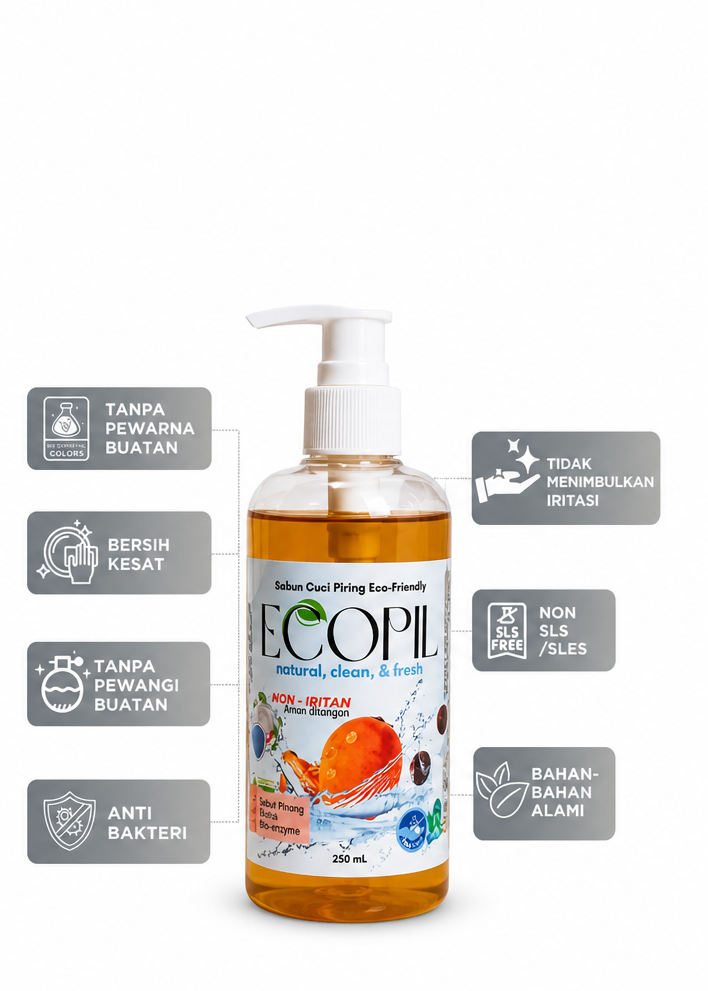
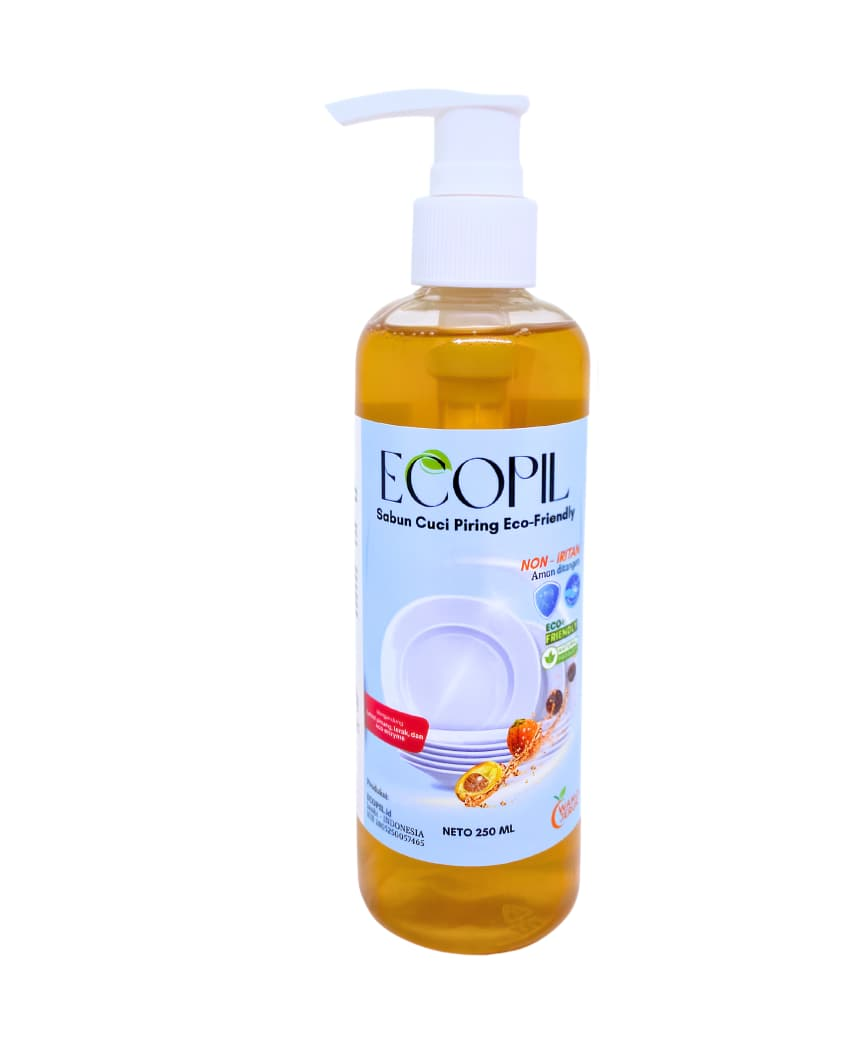
fix bg

diff --git a/index.html b/index.html
@@ -79,7 +79,6 @@
         <div class="container">
             <a class="navbar-brand fw-bold d-flex align-items-center gap-2" href="#hero">
                 <img src="images/logo_ecopil.jpg" alt="ECOPIL Logo" class="navbar-logo-img">
-                ECOPIL
             </a> 
             <button class="navbar-toggler" type="button" data-bs-toggle="collapse" data-bs-target="#navbarNav" aria-label="Buka menu navigasi">
                 <span class="navbar-toggler-icon"></span>
@@ -98,21 +97,9 @@
     </nav>
 
     <!-- Hero Section -->
-    <section id="hero" class="hero-section d-flex align-items-center">
-        <!-- Dekorasi bubble/blob -->
-        <div class="hero-decor" aria-hidden="true">
-            <span class="bubble bubble-1"></span>
-            <span class="bubble bubble-2"></span>
-            <span class="bubble bubble-3"></span>
-            <span class="bubble bubble-4"></span>
-            <span class="bubble bubble-5"></span>
-            <svg class="hero-blob" viewBox="0 0 600 600" xmlns="http://www.w3.org/2000/svg">
-                <path fill="var(--ecopil-mint)" d="M421,320Q414,390,349,420Q284,450,219,423Q154,396,110,341Q66,286,96,215Q126,144,197,111Q268,78,335,110Q402,142,421,211Q440,280,421,320Z"></path>
-            </svg>
-        </div>
-
-        <div class="container position-relative">
+    <section id="hero" class="hero-section d-flex align-items-center" style="background: linear-gradient(rgba(234, 249, 255, 0.88), rgba(234, 249, 255, 0.95)), url('images/kolase-produk.jpeg'); background-size: cover; background-position: center; background-repeat: no-repeat;">
             <div class="row align-items-center">
+                <div class="container position-relative"></div>
                 <div class="col-lg-6 text-center text-lg-start" data-aos="fade-right">
                     <span class="eyebrow"><i class="fas fa-seedling me-2"></i>ECOPIL Indonesia</span>
                     <h1 class="display-5 fw-bold mt-3">
@@ -141,11 +128,6 @@
                     </div>
                 </div>
             </div>
-        </div>
-
-        <!-- Wave divider -->
-        <div class="section-wave" aria-hidden="true">
-            <svg viewBox="0 0 1440 100" preserveAspectRatio="none"><path d="M0,40 C240,100 480,0 720,40 C960,80 1200,10 1440,50 L1440,100 L0,100 Z" fill="var(--ecopil-ice)"></path></svg>
         </div>
     </section>
 
@@ -276,7 +258,7 @@
                         <div class="product-body text-center">
                             <h5 class="card-title">ECOPIL Sabun Cuci Piring 250ml</h5>
                             <p class="card-text">Ukuran hemat, pas untuk keluarga kecil. Formula tanpa SLS, aman untuk kulit sensitif.</p>
-                            <h4 class="price-text">Rp 17.999</h4>
+                            <h4 class="price-text">Rp 20.000</h4>
                             <div class="d-grid gap-2 mt-3">
                                 <a href="https://shopee.co.id/ecopil.id" class="btn btn-ecopil" target="_blank" rel="noopener">
                                     <i class="fas fa-shopping-cart me-2"></i>Beli di Marketplace
@@ -299,7 +281,7 @@
                         <div class="product-body text-center">
                             <h5 class="card-title">ECOPIL Sabun Cuci Piring 500ml</h5>
                             <p class="card-text">Membersihkan lebih banyak, tetap ramah lingkungan. Cocok untuk pemakaian harian.</p>
-                            <h4 class="price-text">Rp 28.999</h4>
+                            <h4 class="price-text">Rp 31.000</h4>
                             <div class="d-grid gap-2 mt-3">
                                 <a href="https://shopee.co.id/ecopil.id" class="btn btn-ecopil" target="_blank" rel="noopener">
                                     <i class="fas fa-shopping-cart me-2"></i>Beli di Marketplace
@@ -324,7 +306,7 @@
                         <div class="product-body text-center">
                             <h5 class="card-title">ECOPIL Kemasan Refill 370ml</h5>
                             <p class="card-text">Lebih hemat dan praktis. Solusi tepat untuk isi ulang sekaligus mengurangi sampah botol plastik.</p>
-                            <h4 class="price-text">Rp 22.999</h4>
+                            <h4 class="price-text">Rp 23.000</h4>
                             <div class="d-grid gap-2 mt-3">
                                 <a href="https://shopee.co.id/ecopil.id" class="btn btn-ecopil" target="_blank" rel="noopener">
                                     <i class="fas fa-shopping-cart me-2"></i>Beli di Marketplace
@@ -349,7 +331,7 @@
                         <div class="product-body text-center">
                             <h5 class="card-title">ECOPIL Kemasan Refill 670ml</h5>
                             <p class="card-text">Ukuran isi ulang terbesar kami. Pilihan paling ekonomis untuk kebutuhan cuci piring keluarga Anda.</p>
-                            <h4 class="price-text">Rp 35.999</h4>
+                            <h4 class="price-text">Rp 35.000</h4>
                             <div class="d-grid gap-2 mt-3">
                                 <a href="https://shopee.co.id/ecopil.id" class="btn btn-ecopil" target="_blank" rel="noopener">
                                     <i class="fas fa-shopping-cart me-2"></i>Beli di Marketplace
@@ -411,47 +393,6 @@
             </div>
         </div>
     </section>
-
-    <!--     & Antusiasme Pelanggan (Solusi: Gambar Tampil Utuh) -->
-        <section id="galeri" class="py-5 bg-ice">
-            <div class="container">
-                <div class="text-center mb-5">
-                    <span class="section-eyebrow" data-aos="fade-up">Galeri & Perjalanan Kami</span>
-                    <h2 data-aos="fade-up">Antusiasme Bersama ECOPIL</h2>
-                    <p class="text-muted mt-2">Kebanggaan kami saat memperkenalkan sabun cuci piring ramah lingkungan langsung kepada masyarakat.</p>
-                </div>
-                <div class="row g-4 justify-content-center">
-                    
-                    <!-- Foto 1: Pelanggan di Stand Expo -->
-                    <div class="col-md-6" data-aos="fade-up" data-aos-delay="0">
-                        <div class="card border-0 shadow-sm rounded-4 overflow-hidden h-100">
-                            <!-- Kotak pembungkus dengan background terang agar rapi -->
-                            <div class="bg-white p-3 d-flex align-items-center justify-content-center" style="height: 340px;">
-                                <img src="images/pelanggan di stand expo ibu2.jpeg" alt="Pelanggan setia di stand ECOPIL" class="img-fluid w-100 h-100" style="object-fit: contain;" loading="lazy">
-                            </div>
-                            <div class="card-body bg-white text-center p-3 border-top">
-                                <h5 class="card-title fs-6 fw-bold mb-1">Pilihan Utama Ibu Rumah Tangga</h5>
-                                <p class="card-text small text-muted mb-0">Pengunjung pameran antusias mencoba dan membawa pulang produk ECOPIL.</p>
-                            </div>
-                        </div>
-                    </div>
-
-                    <!-- Foto 2: Detail Botol & Penggunaan Nyata -->
-                    <div class="col-md-6" data-aos="fade-up" data-aos-delay="150">
-                        <div class="card border-0 shadow-sm rounded-4 overflow-hidden h-100">
-                            <div class="bg-white p-3 d-flex align-items-center justify-content-center" style="height: 340px;">
-                                <img src="images/shoot botol ecopil.jpeg" alt="Detail kemasan botol ECOPIL" class="img-fluid w-100 h-100" style="object-fit: contain;" loading="lazy">
-                            </div>
-                            <div class="card-body bg-white text-center p-3 border-top">
-                                <h5 class="card-title fs-6 fw-bold mb-1">Formula Alami & Lembut di Tangan</h5>
-                                <p class="card-text small text-muted mb-0">Kemasan praktis dengan pompa (pump), nyaman digunakan sehari-hari.</p>
-                            </div>
-                        </div>
-                    </div>
-
-                </div>
-            </div>
-        </section>
 
         <!-- Edukasi & Tips EcoPals -->
         <section id="edukasi" class="py-5">
@@ -746,11 +687,38 @@
                 <i class="fas fa-droplet"></i>
                 <span class="fw-bold fs-5">ECOPIL</span>
             </div>
-            <p class="mb-3 footer-tagline">Sabun cuci piring alami — bersih untuk keluarga, lembut untuk bumi.</p>
+            <p class="mb-3 footer-tagline">sabun cuci piring ramah lingkungan berbasis limbah sabut pinang, lerak, dan eco enzyme</p>
             <div class="mb-3">
                 <a href="https://instagram.com/ecopil.id" target="_blank" rel="noopener" class="text-white me-3" aria-label="Instagram ECOPIL"><i class="fab fa-instagram fa-lg"></i></a>
                 <a href="https://shopee.co.id/ecopil.id" target="_blank" rel="noopener" class="text-white me-3" aria-label="Toko Shopee ECOPIL"><i class="fas fa-store fa-lg"></i></a>
                 <a href="https://wa.me/6287743198186" target="_blank" rel="noopener" class="text-white" aria-label="WhatsApp ECOPIL"><i class="fab fa-whatsapp fa-lg"></i></a>
+            </div>
+            <!-- Kumpulan Link Sosial Media & Marketplace -->
+            <div class="d-flex justify-content-center gap-3 mt-4 mb-3">
+                <!-- Instagram -->
+                <a href="https://www.instagram.com/ecopil.id?igsi=MWlqY211MngxMGd4ag==" target="_blank" rel="noopener" class="btn btn-outline-light rounded-circle" style="width: 45px; height: 45px; display: flex; align-items: center; justify-content: center;" aria-label="Instagram">
+                    <i class="fab fa-instagram fs-5"></i>
+                </a>
+                <!-- TikTok -->
+                <a href="https://www.tiktok.com/@ecopil.id?_r=1&_t=ZS-9968x7Mwend" target="_blank" rel="noopener" class="btn btn-outline-light rounded-circle" style="width: 45px; height: 45px; display: flex; align-items: center; justify-content: center;" aria-label="TikTok">
+                    <i class="fab fa-tiktok fs-5"></i>
+                </a>
+                <!-- Facebook -->
+                <a href="https://www.facebook.com/profile.php?id=61581069813103" target="_blank" rel="noopener" class="btn btn-outline-light rounded-circle" style="width: 45px; height: 45px; display: flex; align-items: center; justify-content: center;" aria-label="Facebook">
+                    <i class="fab fa-facebook-f fs-5"></i>
+                </a>
+                <!-- Threads -->
+                <a href="https://www.threads.com/@ecopil.id?igshid=NTc4MTIwNjQ2YQ==" target="_blank" rel="noopener" class="btn btn-outline-light rounded-circle" style="width: 45px; height: 45px; display: flex; align-items: center; justify-content: center;" aria-label="Threads">
+                    <i class="fa-brands fa-threads fs-5"></i>
+                </a>
+                <!-- Shopee -->
+                <a href="https://id.shp.ee/Z11acMqJ" target="_blank" rel="noopener" class="btn btn-warning rounded-circle text-white border-0" style="width: 45px; height: 45px; display: flex; align-items: center; justify-content: center;" aria-label="Shopee">
+                    <i class="fas fa-shopping-bag fs-5"></i>
+                </a>
+                <!-- Tokopedia / TikTok Shop -->
+                <a href="https://vt.tokopedia.com/t/ZS9kwGr268wa8-TEwFi/" target="_blank" rel="noopener" class="btn btn-success rounded-circle border-0" style="width: 45px; height: 45px; display: flex; align-items: center; justify-content: center;" aria-label="Tokopedia">
+                    <i class="fas fa-store fs-5"></i>
+                </a>
             </div>
             <hr class="footer-divider">
             <p class="mb-0">&copy; <span id="year"></span> ECOPIL Indonesia. All rights reserved.</p>

diff --git a/style.css b/style.css
@@ -236,11 +236,9 @@ button:focus-visible {
 
     border-radius: 50%;
 
-    border: 2px solid var(--ecopil-green);
-
     padding: 4px;
 
-    box-shadow: 0 0 0 3px var(--ecopil-mint);
+    box-shadow: 0 0 0 1px var(--ecopil-mint);
 
     transition: transform 0.3s ease;
 
@@ -313,20 +311,15 @@ button:focus-visible {
   background-color: rgba(255,255,255,0.2);
 
   transform: translateY(-2px);
-
 }
-
-/* ============================================
-   HERO SECTION
-   ============================================ */
+  /* hero section */
 .hero-section {
-  background: linear-gradient(160deg, var(--ecopil-ice) 0%, #cdeaf7 55%, var(--ecopil-blue) 100%);
-  min-height: 92vh;
-  color: var(--dark);
-  position: relative;
-  overflow: hidden;
-  padding-top: 3rem;
-  padding-bottom: 5rem;
+    position: relative;
+    min-height: 92vh;
+    color: var(--dark);
+    overflow: hidden;
+    padding-top: 3rem;
+    padding-bottom: 5rem;
 }
 
 .hero-decor {
